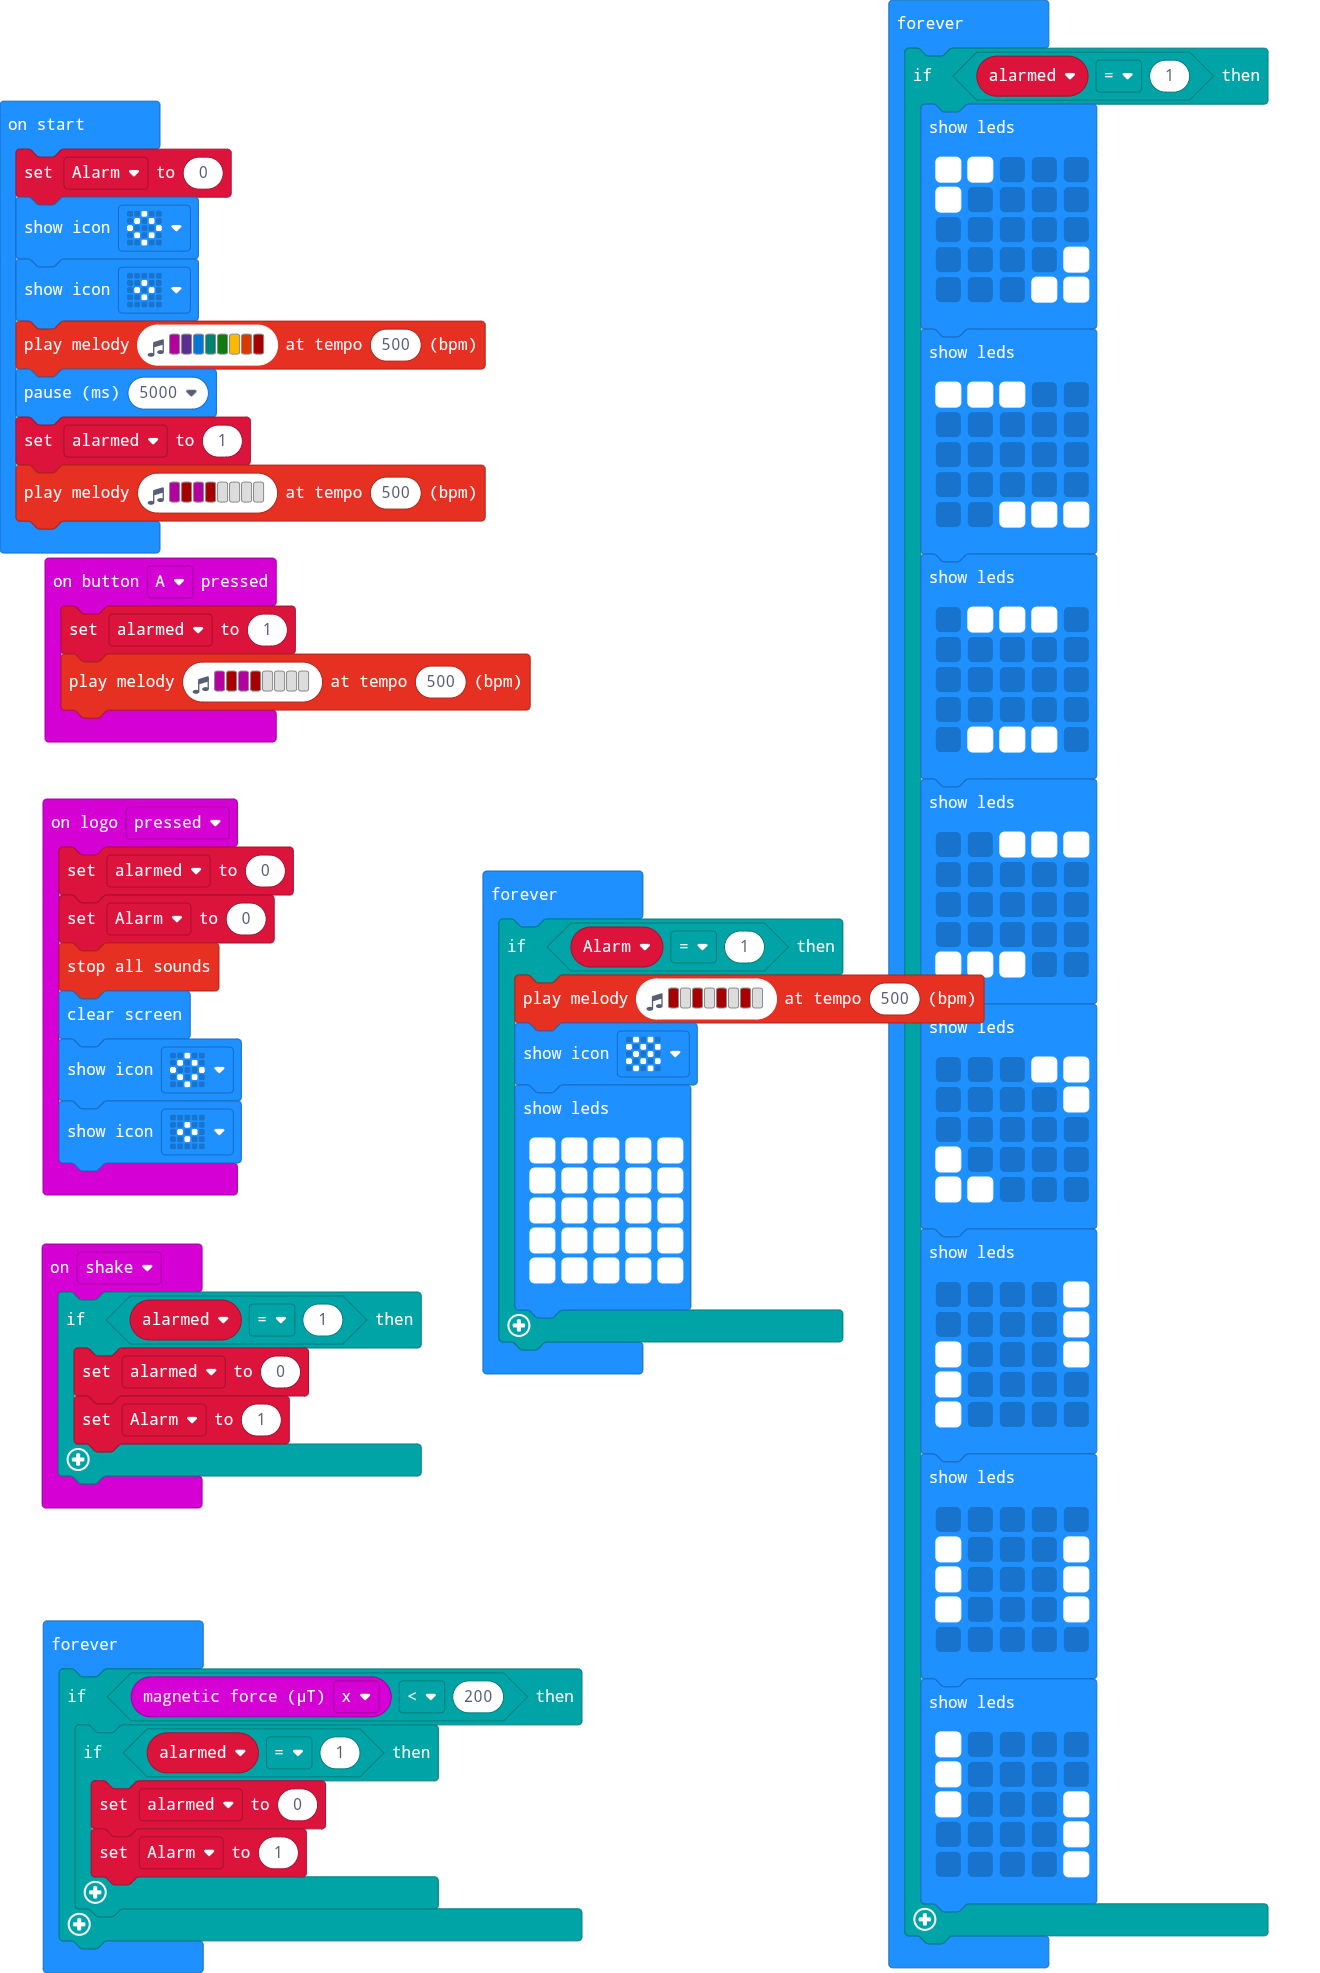
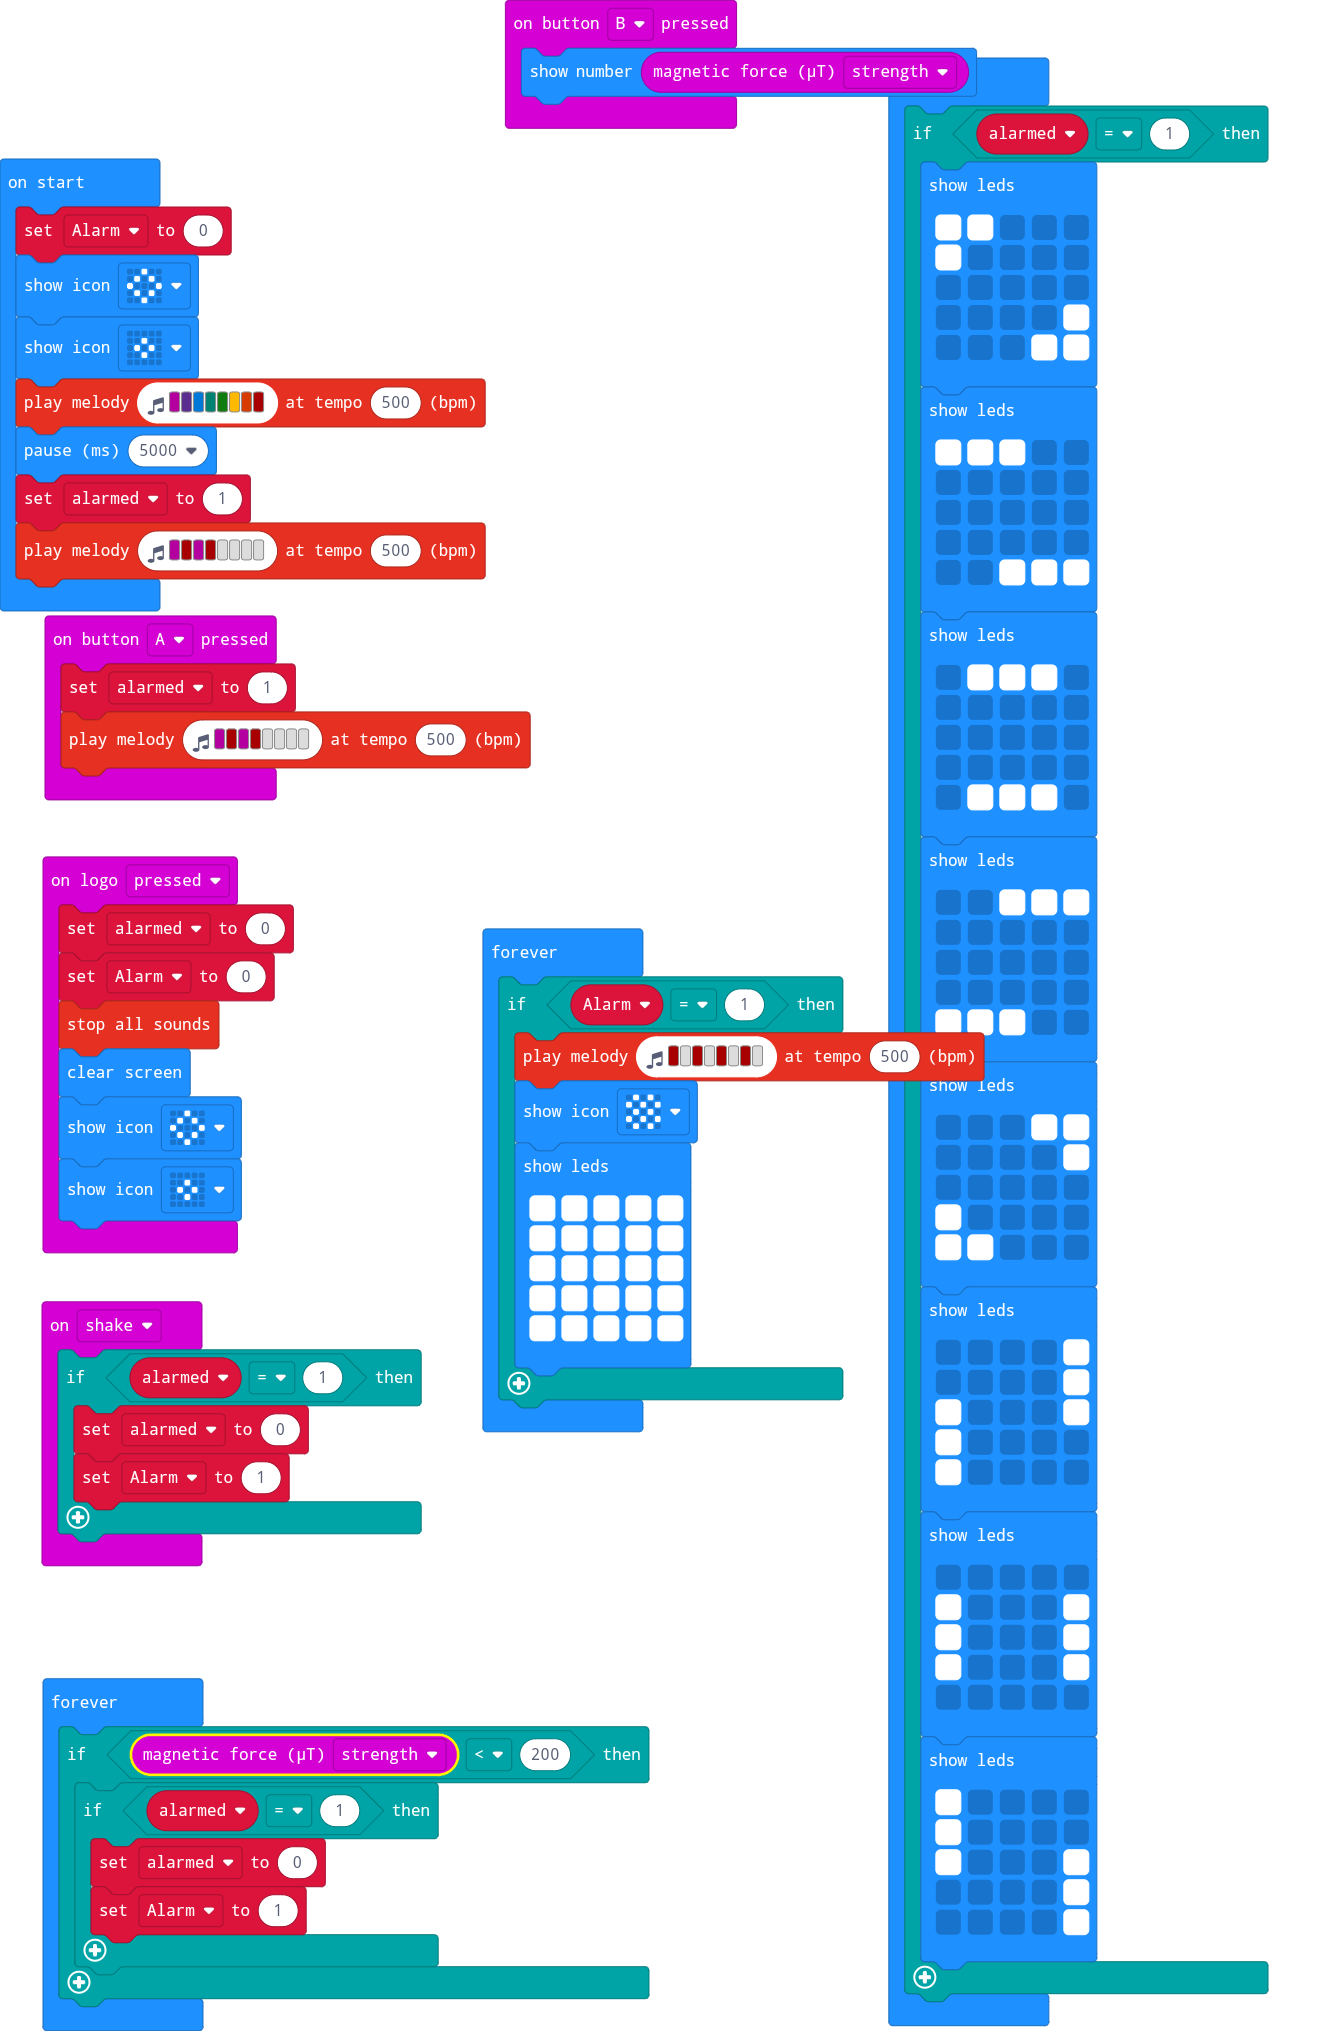
Update main.blocks, main.ts

diff --git a/main.ts b/main.ts
@@ -2,6 +2,9 @@ input.onButtonPressed(Button.A, function () {
     alarmed = 1
     music.playMelody("C C5 C C5 - - - - ", 500)
 })
+input.onButtonPressed(Button.B, function () {
+    basic.showNumber(input.magneticForce(Dimension.Strength))
+})
 input.onGesture(Gesture.Shake, function () {
     if (alarmed == 1) {
         alarmed = 0
@@ -99,7 +102,7 @@ basic.forever(function () {
     }
 })
 basic.forever(function () {
-    if (input.magneticForce(Dimension.X) < 200) {
+    if (input.magneticForce(Dimension.Strength) < 200) {
         if (alarmed == 1) {
             alarmed = 0
             Alarm = 1
